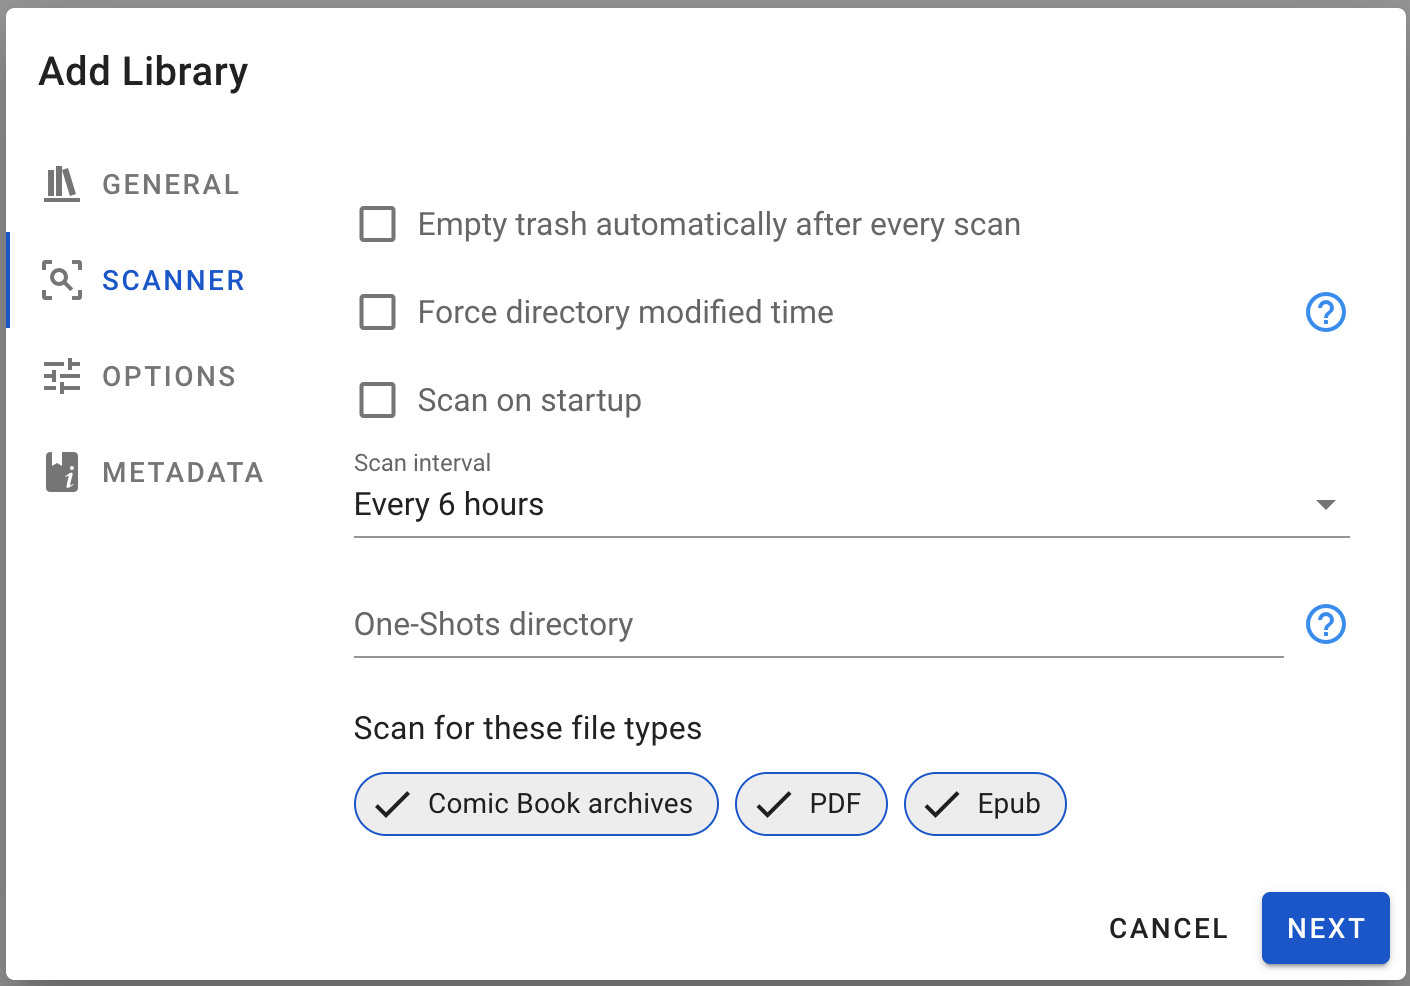
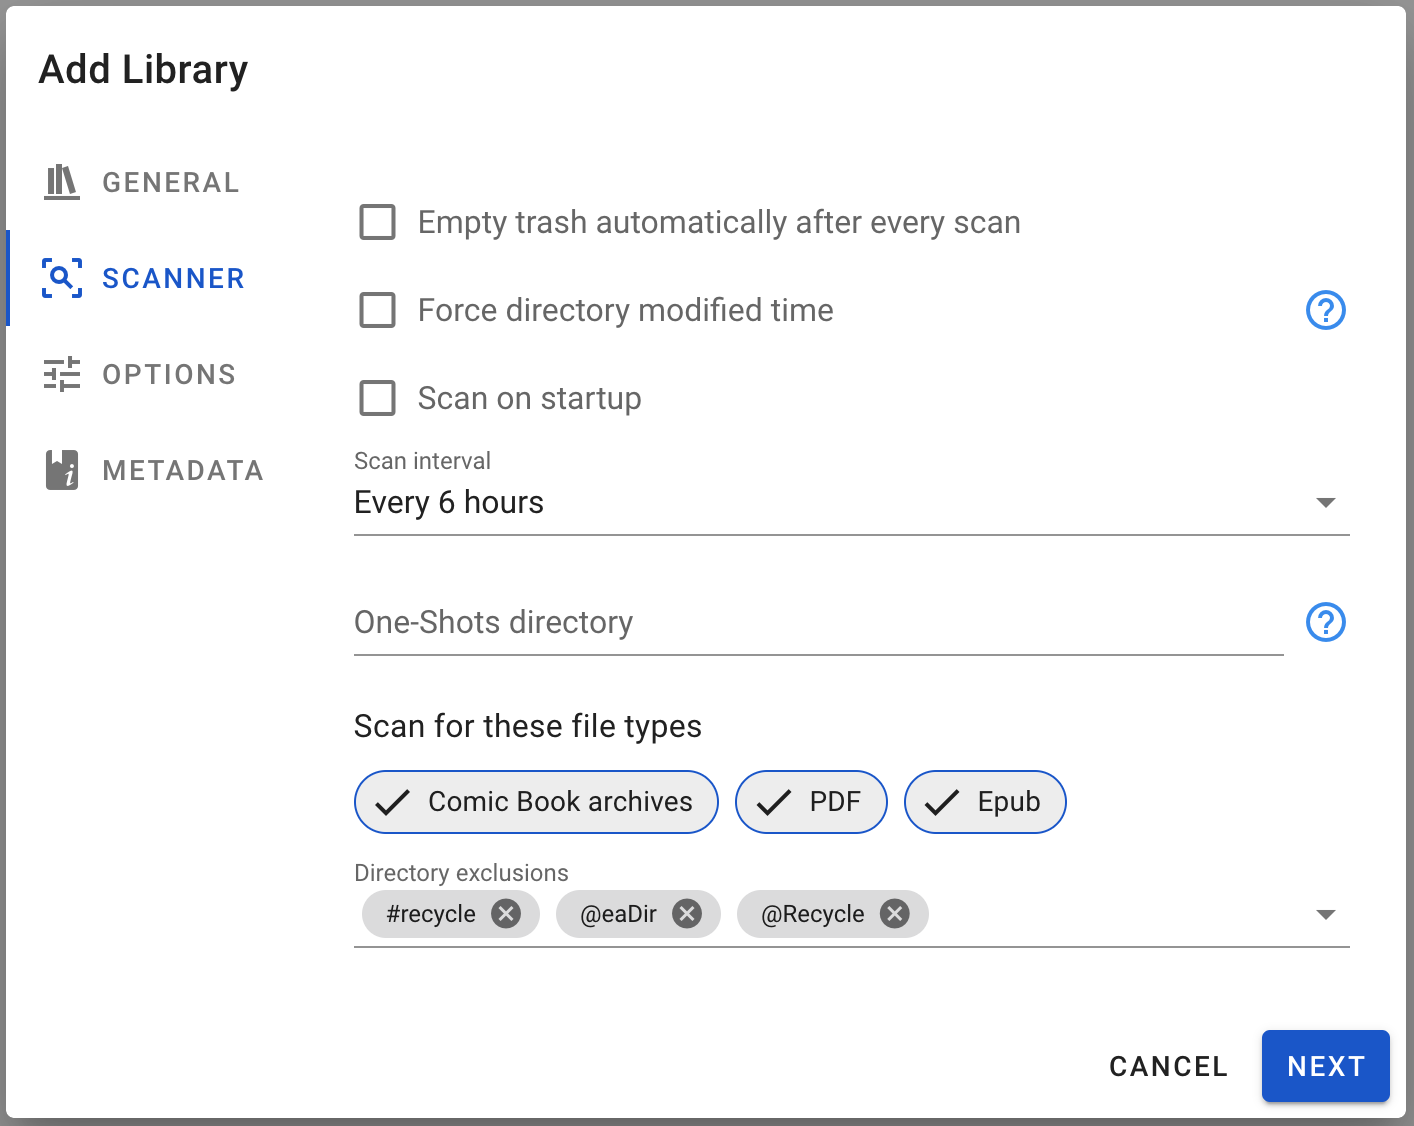
docs: add scan directory exclusions

diff --git a/docs/installation/configuration.md b/docs/installation/configuration.md
@@ -59,11 +59,9 @@ This has been moved to [Library options: scan interval](/guides/libraries.md#sca
 
 This has been moved to [Library options: scan on startup](/guides/libraries.md#scan-on-startup).
 
-#### KOMGA_LIBRARIES_SCAN_DIRECTORY_EXCLUSIONS / komga.libraries-scan-directory-exclusions: `<exclusions>`
+#### ~~KOMGA_LIBRARIES_SCAN_DIRECTORY_EXCLUSIONS / komga.libraries-scan-directory-exclusions: `<exclusions>`~~
 
-A list of patterns to exclude directories from the scan. If the full path contains any of the patterns, the directory will be ignored. If using the environment variable you need to use a comma-separated list.
-
-Defaults to `#recycle,@eaDir,@Recycle`.
+This has been moved to [Library options: directory exclusions](/guides/libraries.md#directory-exclusions).
 
 #### KOMGA_REMEMBERME_KEY / komga.remember-me.key: `<key>`
 
@@ -169,10 +167,6 @@ Here is a sample `application.yml` file in case you need to customize it. Keep o
 # Lines starting with # are comments
 # Make sure indentation is correct (2 spaces at every indentation level), yaml is very sensitive!
 komga:
-  libraries-scan-directory-exclusions:  # patterns to exclude directories from the scan
-    - "#recycle" # synology NAS recycle bin
-    - "@eaDir"   # synology NAS index/metadata folders
-    - "@Recycle" # QNAP NAS recycle bin
   remember-me:
     key: changeMe!    # required to activate the remember-me auto-login via cookies
     validity: 30d     # validity of the cookie in seconds, here 30 days

diff --git a/docs/guides/libraries.md b/docs/guides/libraries.md
@@ -59,6 +59,21 @@ This will configure the scanner to only look for files with specific file extens
 - PDF: `pdf`
 - Epub: `epub`
 
+#### Directory exclusions
+
+You can specify any pattern to exclude directory subtrees from the scan.
+
+Any directory for which the full path contains any of the configured patterns will be ignored during the scan.
+
+Patterns are checked against **any part of the directory path**:
+- `#recycle` will match on:
+  - `/data/books/Comics/#recycle`
+  - `/data/books/Comics/My weirdly named #recycle comic`
+
+:::tip
+To match only directories starting with the provided string, prefix the pattern with `/`, like `/#recycle`
+:::
+
 ### Options
 
 <img src="/assets/media/guides/libraries/library-add-options.png" style={{maxHeight: '500px'}} alt="Add Library Dialog Options"/>
